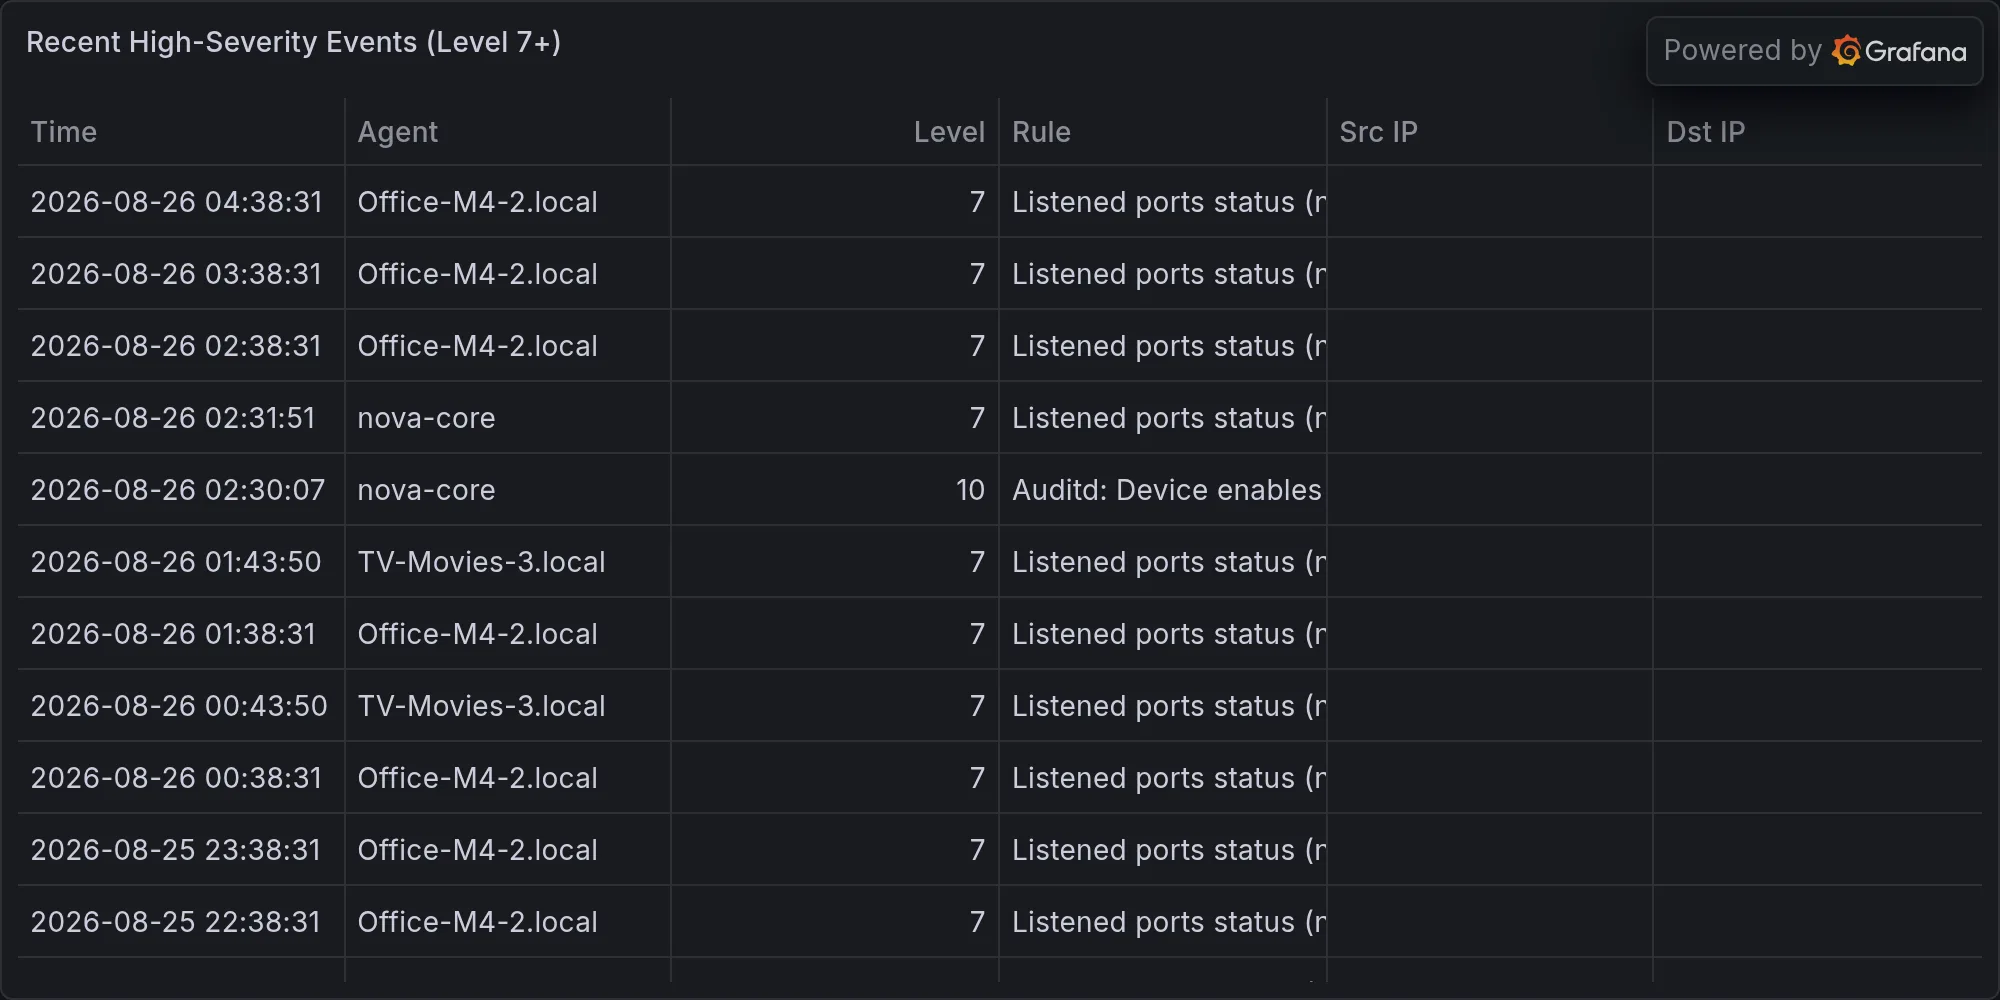
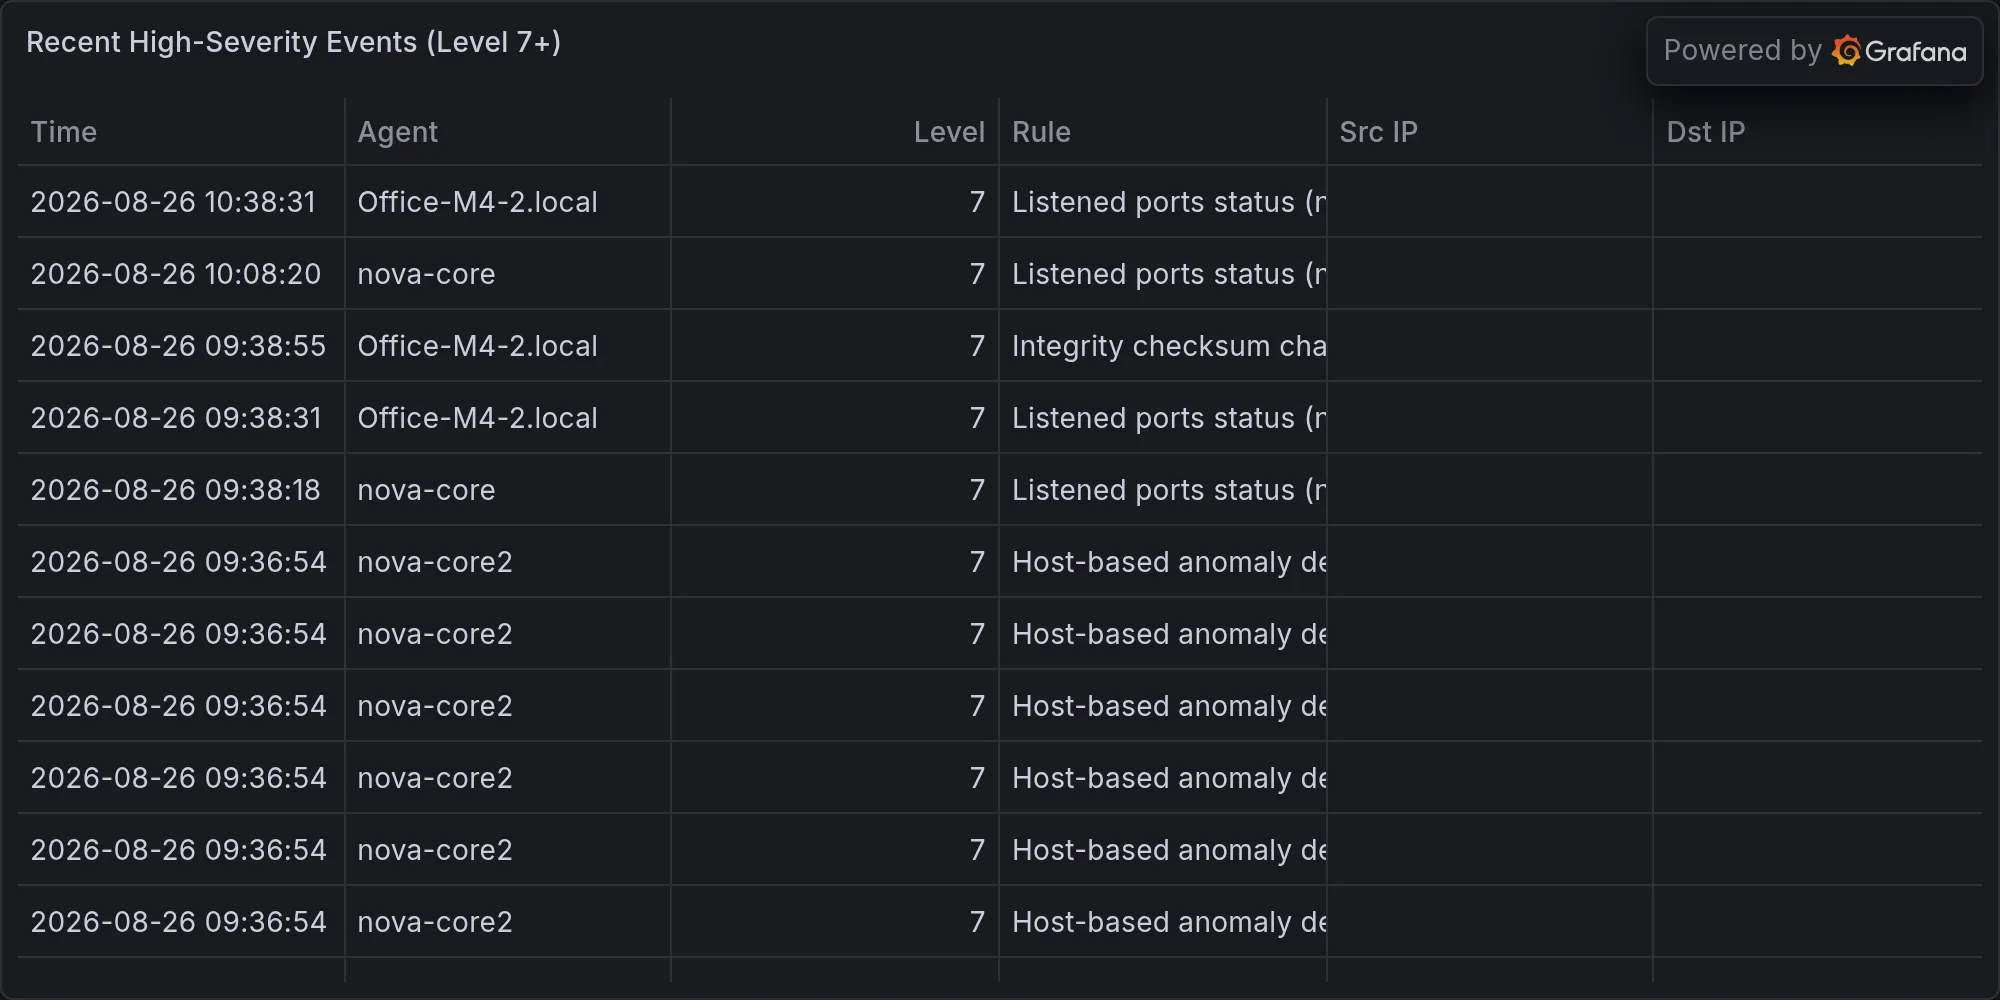
security: 2026-08-26 — **DEVELOPING — State-Sponsored Edge Infrastructure

diff --git a/content/operations/2026-08-26-developing-state-sponsored-edge-infrastructure-exploitation-.md b/content/operations/2026-08-26-developing-state-sponsored-edge-infrastructure-exploitation-.md
@@ -1,0 +1,50 @@
+---
+title: "🛡 **DEVELOPING — State-Sponsored Edge Infrastructure Exploitation Confirmed**"
+date: 2026-08-26T10:41:47-07:00
+draft: false
+categories: ["operations"]
+tags: ["breaking-alert", "tenable-blog-edge-infrastructure-under-s", "security"]
+description: "BREAKING: Tenable Blog: Edge infrastructure under siege"
+cover:
+  image: "/images/operations/2026-08-26-developing-state-sponsored-edge-infrastructure-exploitation-.webp"
+  alt: "**DEVELOPING — State-Sponsored Edge Infrastructure Exploitation Confirmed**"
+  relative: false
+---
+
+*Published Wednesday, August 26, 2026 at 10:41 AM PT*
+
+![**DEVELOPING — State-Sponsored Edge Infrastructure Exploitation Confirmed**](/images/operations/2026-08-26-developing-state-sponsored-edge-infrastructure-exploitation-.webp)
+
+BLUF: Tenable and SentinelOne joint analysis confirms 93 CVE-actor attribution pairs linking state-sponsored actors to active edge infrastructure exploitation. Full report details pending extraction; twelve CVEs documented as targeted.
+
+DETAILS:
+• Tenable-SentinelOne joint analysis publicly released covering edge infrastructure exploitation by state-sponsored actors
+• 93 CVE-actor attribution pairs analyzed across two independent threat datasets
+• Minimum of 12 CVEs confirmed as in-the-wild exploitation targets; specific CVE IDs not yet extracted from available source excerpt
+• GreyNoise 2026 State of the Edge Report independently corroborates heightened attack concentration on perimeter infrastructure with significant defensive coverage gaps
+• Related indicators involve tracked APT groups (Gamaredon, MuddyWater); direct attribution to this analysis unconfirmed pending full report review
+
+IMPACT:
+Active state-sponsored targeting of edge/perimeter infrastructure. Affected assets include:
+— Edge appliances (firewalls, WAF, VPN endpoints, remote access devices)
+— Perimeter security infrastructure
+— Cloud edge workloads with exposed interfaces
+
+RECOMMENDED ACTIONS:
+— Source the full Tenable-SentinelOne analysis for CVE list and actor attribution details
+— Audit all perimeter-exposed devices for patch status against known high-risk CVEs
+— Enable enhanced monitoring/alerting on edge infrastructure for exploitation indicators
+— Prioritize patching for any CVEs matching the 12-CVE subset once report details available
+
+SOURCES:
+• Tenable Blog: "Edge Infrastructure Under Siege: What Two Independent Datasets Reveal About Who's Exploiting Your Perimeter"
+• SentinelOne Labs (joint analysis)
+• GreyNoise 2026 State of the Edge Report
+
+**NOTE: Source material truncated; full technical payload (specific CVE numbers, actor names, exploitation methods) requires access to complete published report.**
+
+---
+
+**Recent high-severity events at publish time:**
+
+![Recent high-severity events](/images/operations/2026-08-26-breaking-alert-posture.webp)
